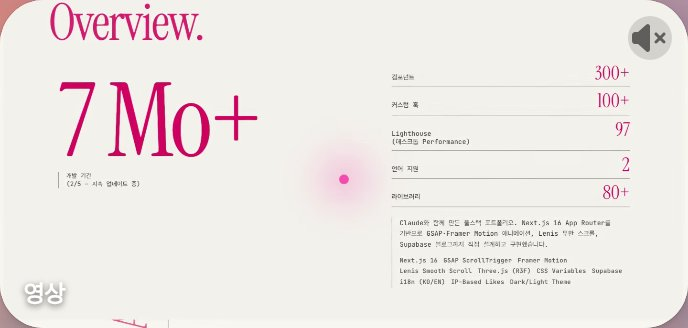
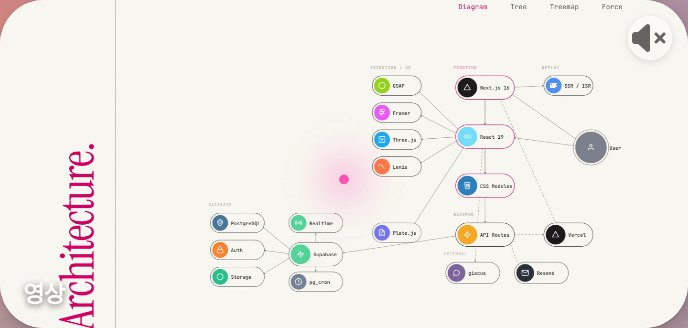
style(widgets): 사진 위젯의 소리 단추를 유리 단추로
- 비치는 흰 판에 흐림·채도, 가는 밝은 테두리와 위쪽 빛, 옅은 그림자
- 흰 유리 위라 아이콘은 짙게 (밝은 영상·어두운 영상 어디서든 보이게)

diff --git a/apps/react/src/desktop/widgets/Widgets.css b/apps/react/src/desktop/widgets/Widgets.css
@@ -538,7 +538,7 @@
 	object-fit: cover;
 }
 
-/* 영상의 소리 켜기·끄기 (오른쪽 위, 기본은 꺼짐): 영상을 가리지 않게 작고 옅은 유리 단추, 가까이 가면 또렷해진다 */
+/* 영상의 소리 켜기·끄기 (오른쪽 위, 기본은 꺼짐): 영상 위에 뜬 작은 유리 단추, 가까이 가면 또렷해진다 */
 .widget-photo-sound {
 	position: absolute;
 	top: var(--space-8);
@@ -549,9 +549,20 @@
 	padding: 0;
 	border: 0;
 	border-radius: var(--radius-full);
-	background-color: color-mix(in srgb, var(--color-black) 18%, transparent);
-	backdrop-filter: blur(8px);
-	color: var(--color-white);
+	/* 유리: 비치는 흰 판에 흐림·채도, 가는 밝은 테두리와 위쪽 빛, 옅은 그림자 */
+	background: linear-gradient(
+		160deg,
+		color-mix(in srgb, var(--color-white) 62%, transparent),
+		color-mix(in srgb, var(--color-white) 34%, transparent)
+	);
+	-webkit-backdrop-filter: blur(12px) saturate(180%);
+	backdrop-filter: blur(12px) saturate(180%);
+	box-shadow:
+		inset 0 0 0 0.5px color-mix(in srgb, var(--color-white) 55%, transparent),
+		inset 0 1px 0 color-mix(in srgb, var(--color-white) 45%, transparent),
+		0 1px 4px color-mix(in srgb, var(--color-black) 18%, transparent);
+	/* 흰 유리 위라 아이콘은 짙게: 밝은 영상·어두운 영상 어디서든 보인다 */
+	color: color-mix(in srgb, var(--color-black) 72%, transparent);
 	font-size: 10px;
 	opacity: 0.7;
 	place-items: center;
